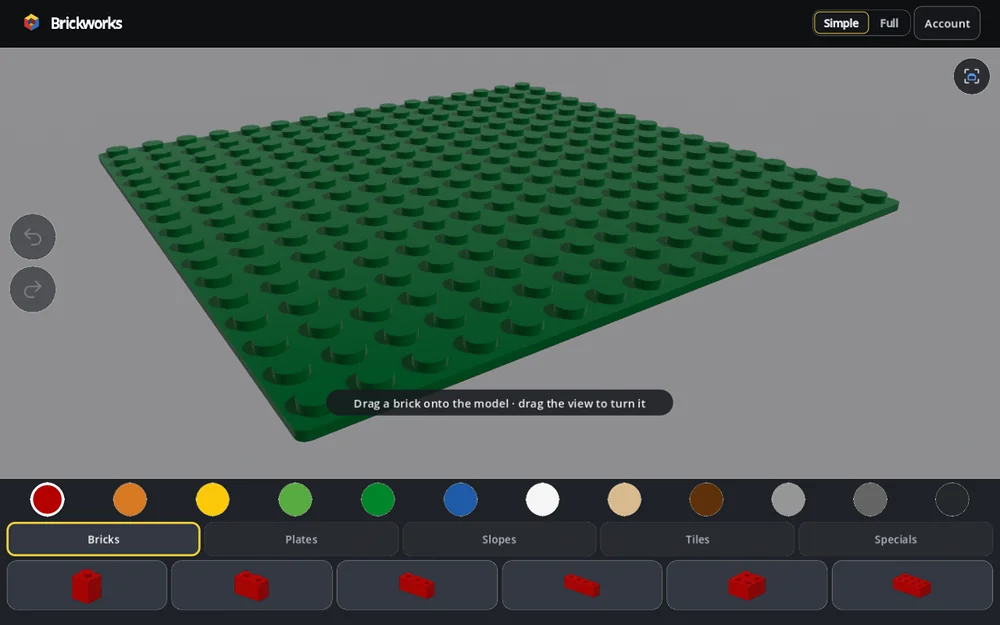
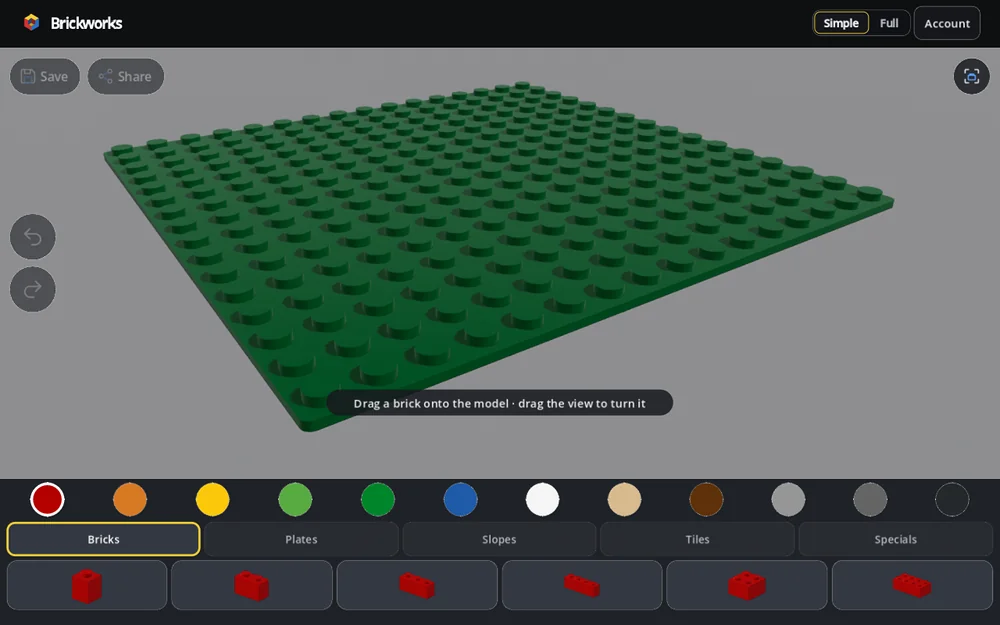
The Simple page shows Simple as it is now, with Save and Share
Made again from b5c7a9cbe: the phone, the computer and the house with a
roof slope selected, now on its own baseplate. The page's words for them
follow the manifest.

diff --git a/docs-site/simple.md b/docs-site/simple.md
@@ -16,7 +16,7 @@ description: Build with big bricks and your fingers: a tray of 30 parts and 12 c
 
 Simple is Brickworks with fewer, bigger controls: a tray of common parts along the foot, one finger to build and two to look round. It is the same studio and the same model, so you can start in Simple and finish in Full, or the other way round.
 
-![Brickworks on a phone in Simple: the header with Simple pressed beside Full, an empty 16 by 16 green plate filling the view, and the tray along the foot: twelve colours in two rows, the tabs Bricks, Plates, Slopes, Tiles and Specials, and six bricks with their pictures, Undo and Redo in the corner.](/docs/img/simple-phone.webp "Simple on a phone: a new model starts on a plate that fills the view.")
+![Brickworks on a phone in Simple: the header with Simple pressed beside Full, Save and Share dimmed at the top left over an empty 16 by 16 green plate filling the view, and the tray along the foot: twelve colours in two rows, the tabs Bricks, Plates, Slopes, Tiles and Specials, and six bricks with their pictures, Undo and Redo in the corner.](/docs/img/simple-phone.webp "Simple on a phone: a new model starts on a plate that fills the view.")
 
 ## Switch between Simple and Full {#switch}
 
@@ -24,7 +24,7 @@ Tap **Simple** or **Full** in the header, on a phone, a tablet or a computer. Yo
 
 Switching changes only the controls. Every part, your undo steps and your saved file stay as they are, and the view comes back where you left it in Full. Simple starts with nothing selected: what you selected in Full waits for you there, and Simple's buttons only ever change what you pick in Simple.
 
-![Brickworks on a computer in Simple: the header with the Brickworks mark and Simple pressed beside Full, the empty plate in the middle of the view, and the tray along the foot with its twelve colours in one row, the five group tabs and six bricks.](/docs/img/simple-desktop.webp "The same Simple on a computer: the mouse is a finger, and Full is one click away.")
+![Brickworks on a computer in Simple: the header with the Brickworks mark and Simple pressed beside Full, Save and Share dimmed at the top left, the empty plate in the middle of the view, and the tray along the foot with its twelve colours in one row, the five group tabs and six bricks.](/docs/img/simple-desktop.webp "The same Simple on a computer: the mouse is a finger, and Full is one click away.")
 
 <!-- covers
 ui:simple's controls swapped in live
@@ -53,7 +53,7 @@ Tap a part on the model to select it. **Turn**, **Copy** and **Delete** come up 
 
 Holding a finger still on a part does nothing, so a resting thumb never deletes anything.
 
-![A little red, yellow and blue house with a white roof in Simple on a phone, one roof slope selected, and the round Turn, Copy and Delete buttons up on the right over the tray.](/docs/img/simple-selected.webp "A tap on a part selects it: Turn, Copy and Delete come up beside it.")
+![A little red, yellow and blue house with a white roof on a 16 by 16 baseplate in Simple on a phone, one roof slope selected, Save and Share at the top left, and the round Turn, Copy and Delete buttons up on the right over the tray.](/docs/img/simple-selected.webp "A tap on a part selects it: Turn, Copy and Delete come up beside it.")
 
 ## Undo, redo and the view {#view}
 
